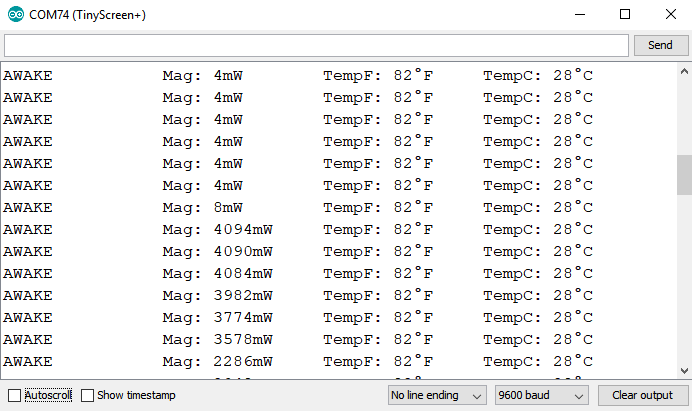
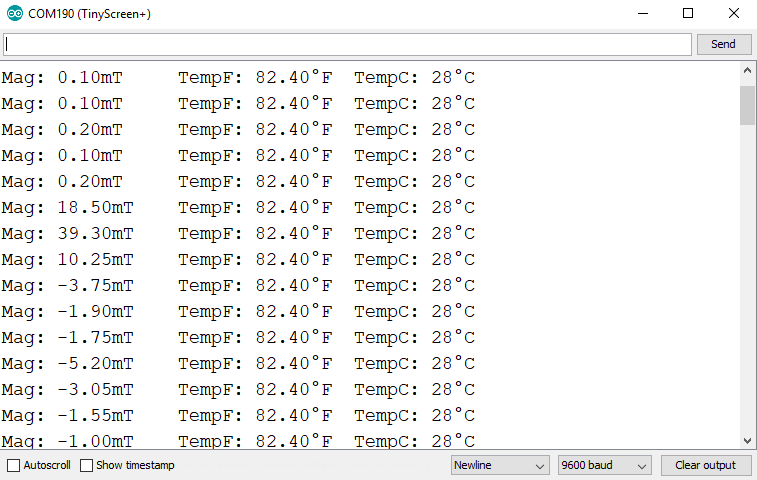
fix analog issue

Changed region(s): [[0.0, 0.0, 1.0, 0.9927], [0.698, 0.438, 0.8497, 0.7299], [0.9711, 0.3504, 1.0, 0.4964]]

diff --git a/examples/Hall-Effect-Analog-Sensor_Wireling_example/TinyCircuits_A1454.cpp b/examples/Hall-Effect-Analog-Sensor_Wireling_example/TinyCircuits_A1454.cpp
@@ -1,9 +1,9 @@
 //*******************************************************************
 // TinyCircuits - A1454 Allegro Linear Hall-Effect Sensor Library 
-// Written by: Brandon Farmer for TinyCircuits 
+// Written by: Ben Rose for TinyCircuits 
 //
 // Initiated: Wed. 8/ 8/2017 @  2:30PM 
-//   Updated: Mon. 8/28/2017 @  7:15PM 
+//   Updated: Jan 2020
 //*******************************************************************
 
 #include <avr/pgmspace.h>
@@ -19,9 +19,7 @@ TinyCircuits_A1454::TinyCircuits_A1454() {
 
 //Begins I2C Communication
 void TinyCircuits_A1454::begin() {
-	Wire.begin();
-//	access(); 
-	wake();  
+
 }
 
 //Read the 12-bit signed Magnetic Field Value 						
@@ -38,10 +36,10 @@ int16_t TinyCircuits_A1454::readMag() {
 	x = Wire.read();
 	y = Wire.read(); 
 	
-	x <<= 8; 
-		
-	y |= x; 
-	return y; 												
+  x <<= 12; 
+  x |= (y << 4); 
+  x >>= 4;
+	return x; 												
 }
 
 //Read the 12-bit signed Junction Temperature Value 
@@ -57,36 +55,14 @@ int16_t TinyCircuits_A1454::readTemp() {
 	Wire.read(); 
 	x = Wire.read();
 	y = Wire.read(); 
-	
-	x <<= 8; 
-		
-	y |= x; 
-	y /= 8; 
-	y += 25; 
-	return y; 												
-}
 
-//Put the sensor into sleep mode 
-void TinyCircuits_A1454::sleep(void) {
-	Wire.beginTransmission(A1454_ADDRESS); 					
-	Wire.write(A1454_SLEEP); 	
-	Wire.write(0x00); 
-	Wire.write(0x00);
-	Wire.write(0x00); 
-	Wire.write(0x01); 
-	Wire.endTransmission(); 																				
-}
-
-//Wake the sensor from sleep mode, wait for it to stabilize 
-void TinyCircuits_A1454::wake(void) {
-	Wire.beginTransmission(A1454_ADDRESS); 					
-	Wire.write(A1454_SLEEP); 	
-	Wire.write(0x00); 
-	Wire.write(0x00); 
-	Wire.write(0x00); 
-	Wire.write(0x00);
-	Wire.endTransmission();
-	//delay(1); 
+  x <<= 12; 
+  x |= (y << 4); 
+  x >>= 4;
+  
+	x /= 8; // temperature offset
+	x += 25; 
+	return x; 												
 }
 
 //Check awake or sleep status 
@@ -101,12 +77,4 @@ uint8_t TinyCircuits_A1454::readMode(void) {
 	Wire.read();
 	
 	return Wire.read(); 											
-}
-
-//Write ACCESS codes to write to allow write to registers? 
-void TinyCircuits_A1454::access(void) {
-	Wire.beginTransmission(A1454_ADDRESS); 
-	Wire.write(A1454_ACCESS_ADDRESS); 
-	Wire.write(A1454_ACCESS_CODE); 
-	Wire.endTransmission(); 
 }

diff --git a/examples/Hall-Effect-Analog-Sensor_Wireling_example/TinyCircuits_A1454.h b/examples/Hall-Effect-Analog-Sensor_Wireling_example/TinyCircuits_A1454.h
@@ -3,7 +3,7 @@
 // Written by: Brandon Farmer for TinyCircuits 
 //
 // Initiated: Wed. 8/ 8/2017 @  2:30PM 
-//   Updated: Mon. 8/28/2017 @  7:15PM 
+//   Updated: Jan 2020
 //*******************************************************************
 
 #ifndef _TinyCircuits_A1454_H_
@@ -30,12 +30,8 @@ class TinyCircuits_A1454 {
 		void begin(void); 					//Begin I2C Communications, access and wake sensor 
 		int16_t readMag(void);				//Read magnetometer value 
 		int16_t readTemp(void);				//Read temperature value 
-		void sleep(void);					//Put sensor into sleep mode 
-		void wake(void); 					//Wake sensor up from sleep mode 
 		uint8_t readMode(void); 			//Check for wake/sleep mode 
 	
-	private: 
-		void access(void); 					//Allow user to write to sensor registers 
 };
 
 #endif
